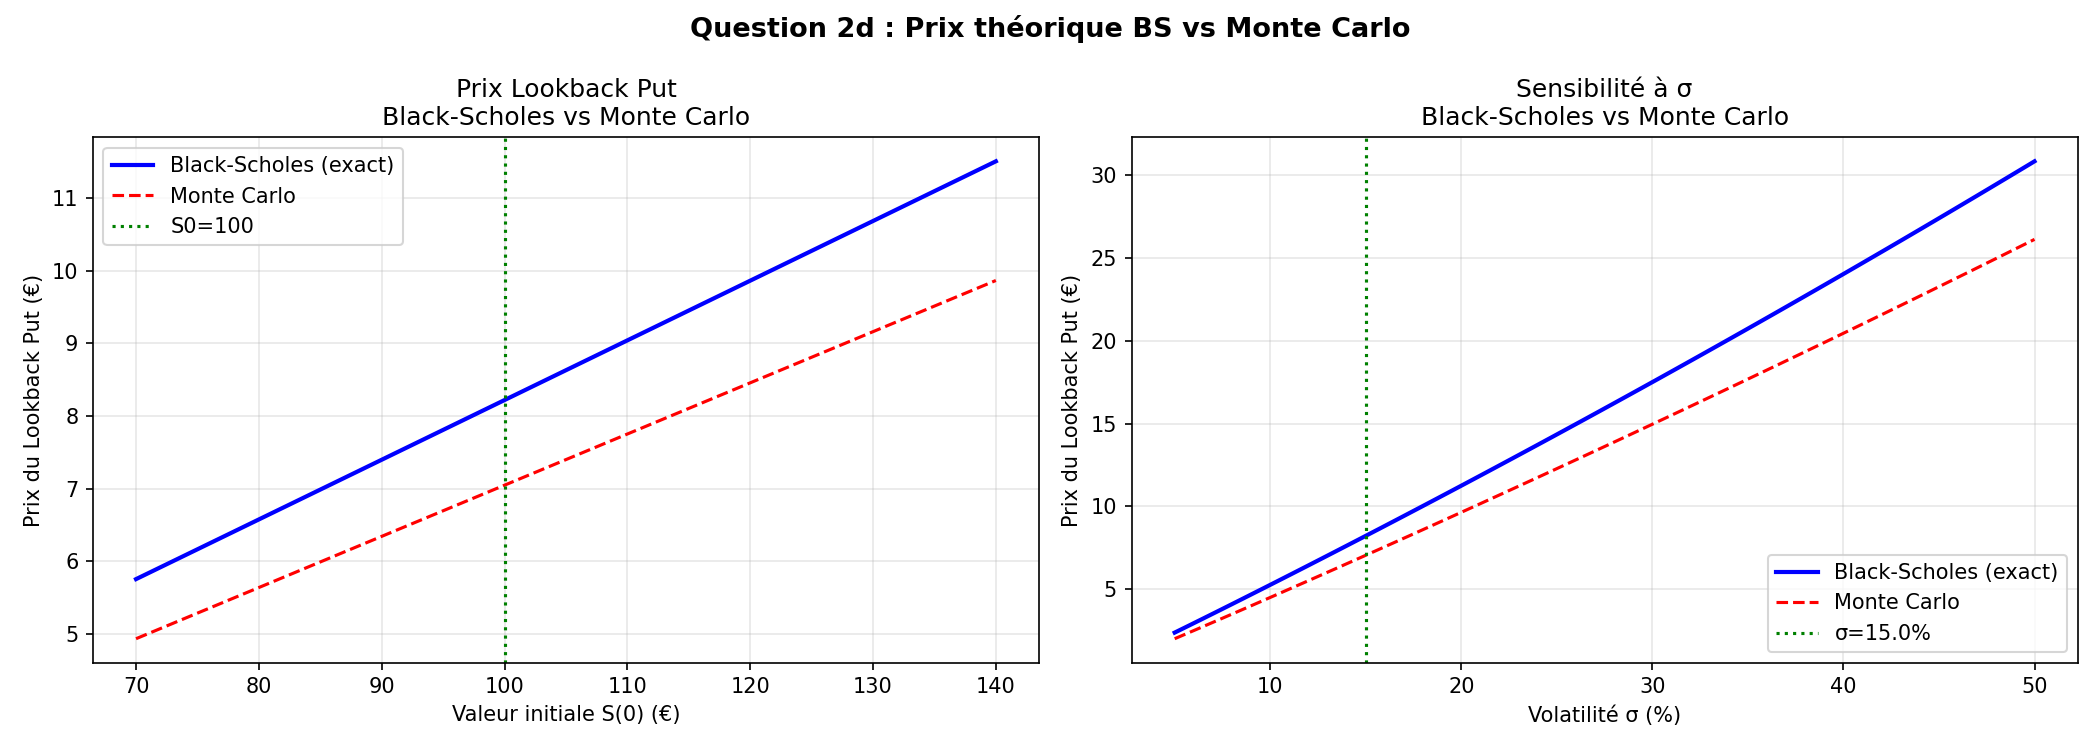
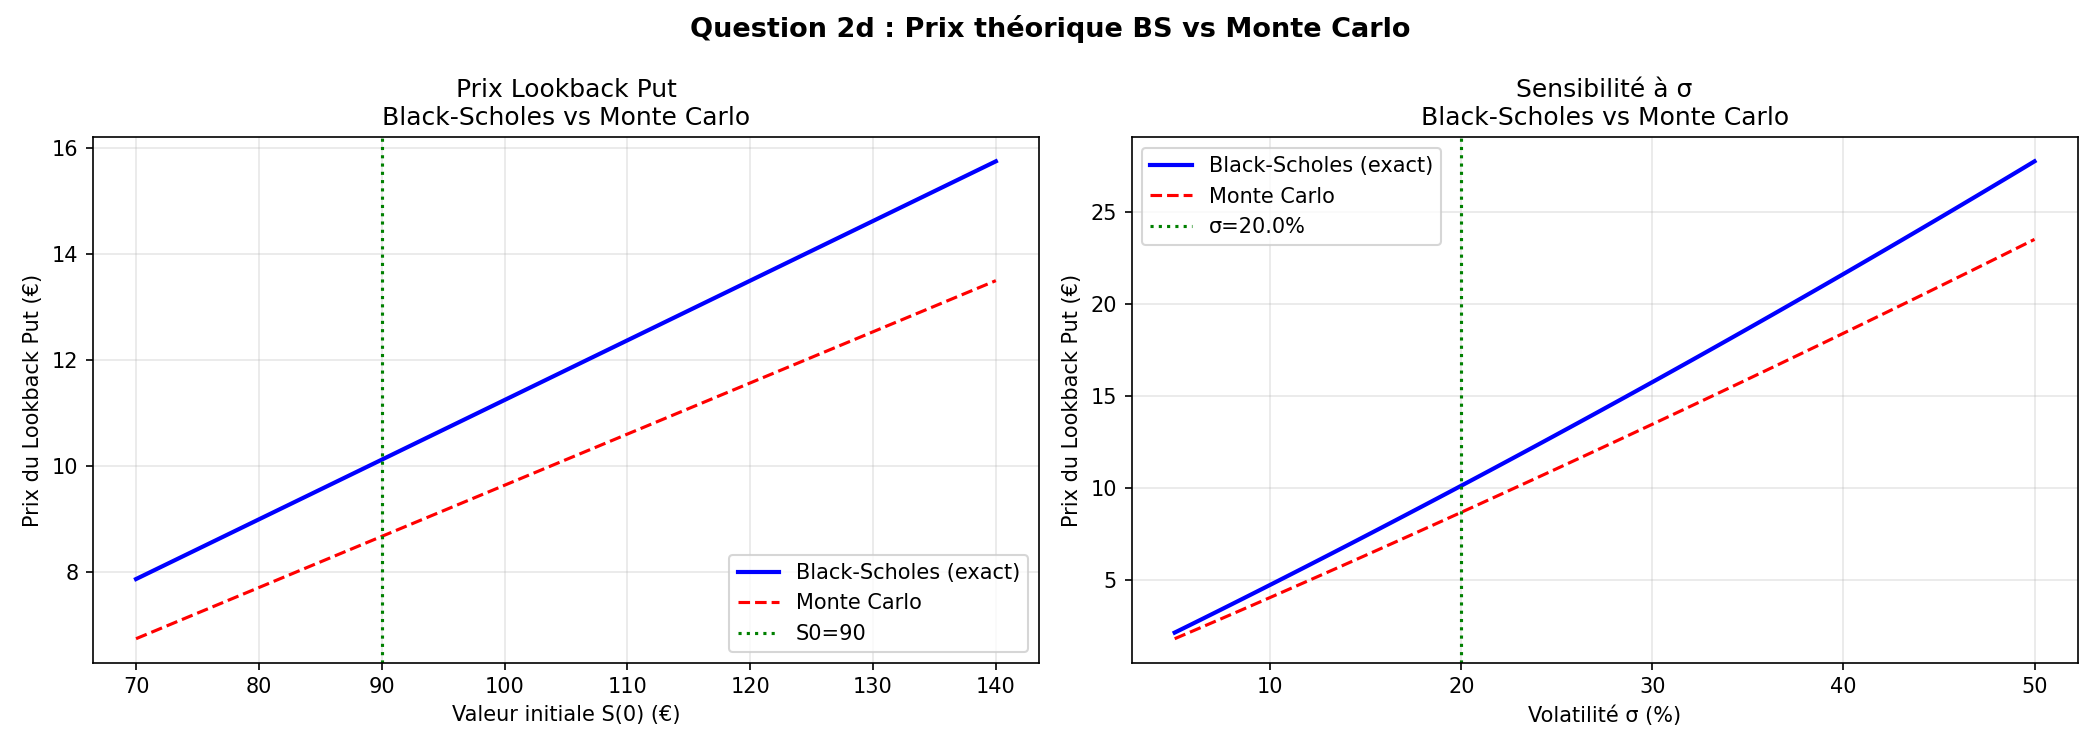
valeur 12

diff --git a/q1a.py b/q1a.py
@@ -10,8 +10,8 @@ import matplotlib.pyplot as plt
 # Paramètres globaux
 # ---------------------------
 r     = 0.02       # taux d'intérêt
-S0    = 100        # valeur initiale du sous-jacent
-sigma = 0.15       # volatilité
+S0    = 90        # valeur initiale du sous-jacent
+sigma = 0.20       # volatilité
 K     = 110        # strike
 T     = 0.5        # maturité en années (6 mois)
 N     = 26         # nombre de pas (6 mois en 26 pas ~ hebdomadaire)

diff --git a/q2a.py b/q2a.py
@@ -10,8 +10,8 @@ import matplotlib.pyplot as plt
 # Paramètres globaux
 # ---------------------------
 r     = 0.02
-S0    = 100
-sigma = 0.15
+S0    = 90
+sigma = 0.20
 T     = 0.5
 N     = 26        # pas temporel hebdomadaire
 n_sim = 50000

diff --git a/q2d.py b/q2d.py
@@ -12,8 +12,8 @@ from scipy.stats import norm
 # Paramètres globaux
 # ---------------------------
 r     = 0.02
-S0    = 100
-sigma = 0.15
+S0    = 90
+sigma = 0.20
 T     = 0.5
 N     = 26
 n_sim = 50000

diff --git a/q1b.py b/q1b.py
@@ -12,8 +12,8 @@ from scipy.stats import norm
 # Paramètres globaux
 # ---------------------------
 r     = 0.02
-S0    = 100
-sigma = 0.15
+S0    = 90
+sigma = 0.20
 K     = 110
 T     = 0.5
 N     = 26

diff --git a/q1c.py b/q1c.py
@@ -13,8 +13,8 @@ from scipy.stats import norm
 # Paramètres globaux
 # ---------------------------
 r     = 0.02
-S0    = 100
-sigma = 0.15
+S0    = 90
+sigma = 0.20
 K     = 110
 T     = 0.5
 SEED  = 42

diff --git a/q2e.py b/q2e.py
@@ -12,8 +12,8 @@ from scipy.stats import norm
 # Paramètres globaux
 # ---------------------------
 r     = 0.02
-S0    = 100
-sigma = 0.15
+S0    = 90
+sigma = 0.20
 K     = 110
 T     = 0.5
 N     = 26

diff --git a/q2b.py b/q2b.py
@@ -12,8 +12,8 @@ import matplotlib.pyplot as plt
 # Paramètres globaux
 # ---------------------------
 r     = 0.02
-S0    = 100
-sigma = 0.15
+S0    = 90
+sigma = 0.20
 T     = 0.5
 SEED  = 42
 

diff --git a/q2c.py b/q2c.py
@@ -11,8 +11,8 @@ import matplotlib.pyplot as plt
 # Paramètres globaux
 # ---------------------------
 r     = 0.02
-S0    = 100
-sigma = 0.15
+S0    = 90
+sigma = 0.20
 T     = 0.5
 SEED  = 42
 
